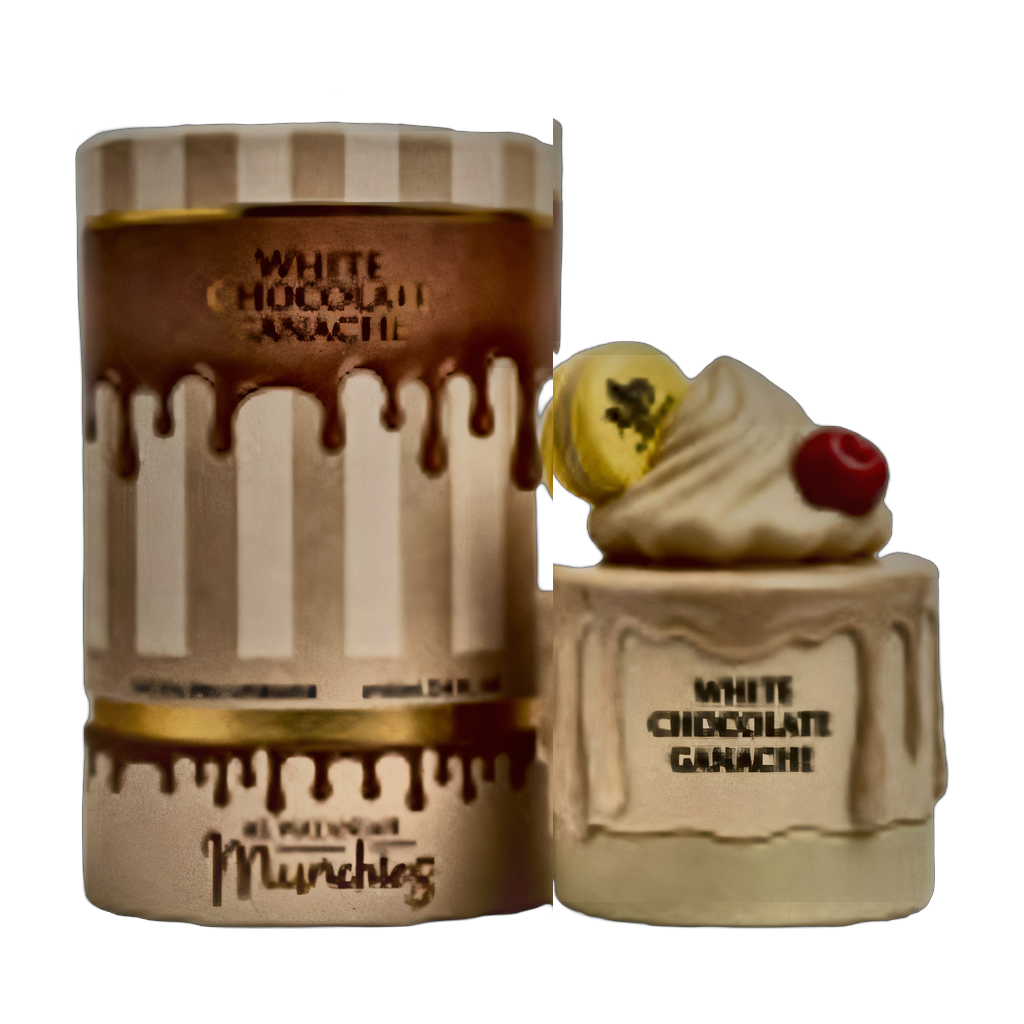
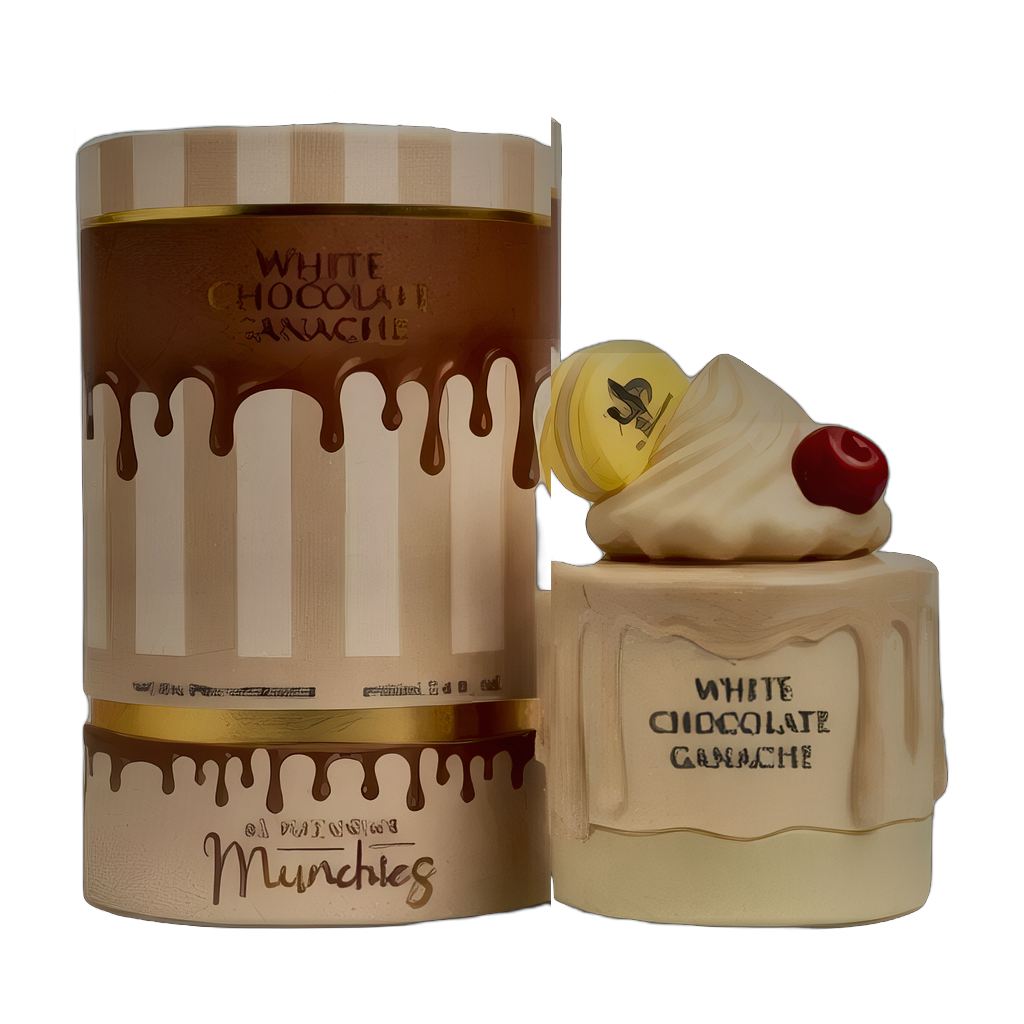
fix(images): remove pre-CLAHE ringing and prefer high-fidelity-4x for crisp typography

diff --git a/Al-Warda/scripts/generate_product_images.py b/Al-Warda/scripts/generate_product_images.py
@@ -1691,25 +1691,8 @@ def super_resolve_product_image_if_needed(image, min_dim=900):
     if max(w, h) >= min_dim:
         return image
 
-    # Micro-contrast and edge enhancement in LAB space:
-    # Brings out subtle embossing, tone-on-tone lettering (e.g. gold-on-gold, red-on-red)
-    # and packaging facets before feeding into neural super-resolution models.
-    try:
-        import cv2
-        import numpy as np
-        arr_pre = np.array(image.convert("RGB"))
-        lab_pre = cv2.cvtColor(arr_pre, cv2.COLOR_RGB2LAB)
-        l_pre, a_pre, b_pre = cv2.split(lab_pre)
-        clahe_pre = cv2.createCLAHE(clipLimit=1.8, tileGridSize=(6, 6))
-        l_clahe = clahe_pre.apply(l_pre)
-        blur_l = cv2.GaussianBlur(l_clahe, (0, 0), 0.8)
-        l_sharp = cv2.addWeighted(l_clahe, 1.30, blur_l, -0.30, 0)
-        lab_enhanced = cv2.merge([l_sharp, a_pre, b_pre])
-        arr_enhanced = cv2.cvtColor(lab_enhanced, cv2.COLOR_LAB2RGB)
-        image = Image.fromarray(arr_enhanced)
-    except Exception:
-        pass
-
+    # Feed the clean original RGB directly into neural super-resolution without
+    # pre-CLAHE/pre-sharpening so JPEG ringing around small text is never amplified.
     bin_path, models_dir = find_superres_binary()
     if bin_path:
         try:
@@ -1721,15 +1704,17 @@ def super_resolve_product_image_if_needed(image, min_dim=900):
                 image.convert("RGB").save(in_path, format="PNG")
                 cmd = [bin_path, "-i", in_path, "-o", out_path, "-s", str(scale), "-c", "0", "-j", "1:1:1"]
                 if models_dir and os.path.isdir(models_dir):
-                    # ultrasharp-4x is the gold standard for packaging, fonts, and embossed typography
-                    if os.path.isfile(os.path.join(models_dir, "ultrasharp-4x.bin")):
-                        cmd.extend(["-m", models_dir, "-n", "ultrasharp-4x"])
-                    elif os.path.isfile(os.path.join(models_dir, "high-fidelity-4x.bin")):
+                    # high-fidelity-4x preserves natural photo texture and fine typography without painterly smearing
+                    if os.path.isfile(os.path.join(models_dir, "high-fidelity-4x.bin")):
                         cmd.extend(["-m", models_dir, "-n", "high-fidelity-4x"])
-                    elif os.path.isfile(os.path.join(models_dir, "remacri-4x.bin")):
-                        cmd.extend(["-m", models_dir, "-n", "remacri-4x"])
                     elif os.path.isfile(os.path.join(models_dir, "realesrgan-x4plus.bin")):
                         cmd.extend(["-m", models_dir, "-n", "realesrgan-x4plus"])
+                    elif os.path.isfile(os.path.join(models_dir, "ultramix-balanced-4x.bin")):
+                        cmd.extend(["-m", models_dir, "-n", "ultramix-balanced-4x"])
+                    elif os.path.isfile(os.path.join(models_dir, "ultrasharp-4x.bin")):
+                        cmd.extend(["-m", models_dir, "-n", "ultrasharp-4x"])
+                    elif os.path.isfile(os.path.join(models_dir, "remacri-4x.bin")):
+                        cmd.extend(["-m", models_dir, "-n", "remacri-4x"])
                     else:
                         cmd.extend(["-m", models_dir])
                 res = subprocess.run(cmd, stdout=subprocess.PIPE, stderr=subprocess.PIPE, text=True, timeout=120)
